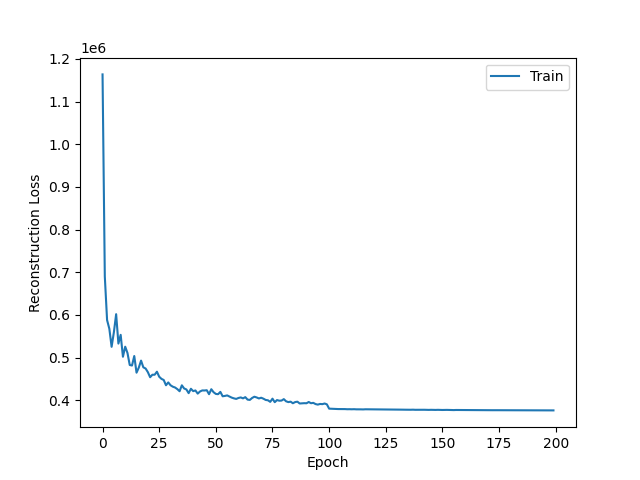
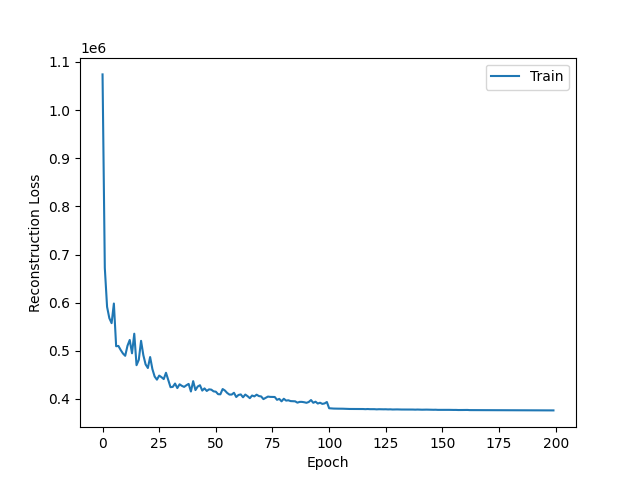
added seeding

diff --git a/source/functions/ddp_setup.py b/source/functions/ddp_setup.py
@@ -1,7 +1,17 @@
 import os
+import torch
 from torch.distributed import init_process_group
 
-def ddp_setup(rank,world_size):
+def set_seed(seed):
+    torch.manual_seed(seed)
+    torch.cuda.manual_seed(seed)
+    torch.cuda.manual_seed_all(seed)
+    torch.backends.cudnn.deterministic = True
+    torch.backends.cudnn.benchmark = False
+
+
+def ddp_setup(rank,world_size,seed):
     os.environ["MASTER_ADDR"]="localhost"
     os.environ["MASTER_PORT"]="12355"
     init_process_group(backend="nccl",rank=rank,world_size=world_size)
+    set_seed(seed)

diff --git a/source/train.py b/source/train.py
@@ -14,7 +14,7 @@ from functions.scheduler import lr_scheduler
 
 def main(rank:int,world_size:int):
 
-    ddp_setup(rank,world_size)
+    ddp_setup(rank,world_size,1234)
 
     parser = argparse.ArgumentParser()
     parser.add_argument('--fraction',type=int,default=0)
